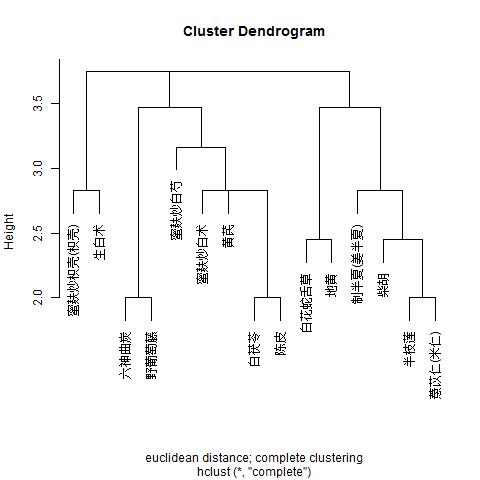
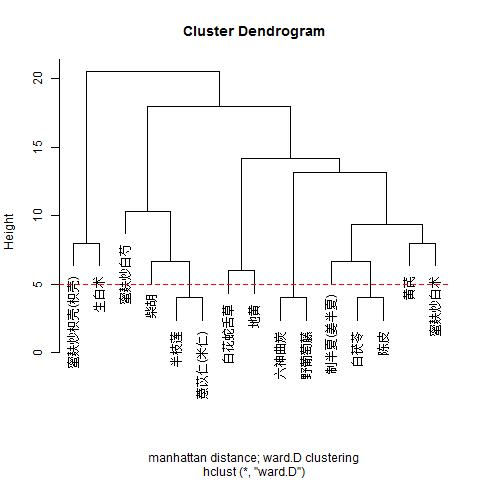
bust browser cache

diff --git a/static/src/julei.js b/static/src/julei.js
@@ -6,13 +6,8 @@ $("#submit-julei").click(e => {
 			distance: $("#distance").val(),
 			method: $("#method").val(),
 			cut: $("#cut").val()
-		},
-		headers: {
-			'Cache-Control': 'no-cache' 
 		}
 	}).done(data => {
-		console.log(data)
-		$("#dendrogram").empty()
-		document.getElementById('dendrogram').src=data
+		document.getElementById('dendrogram').src = data + "?" + new Date().getTime();
 	})
 })
